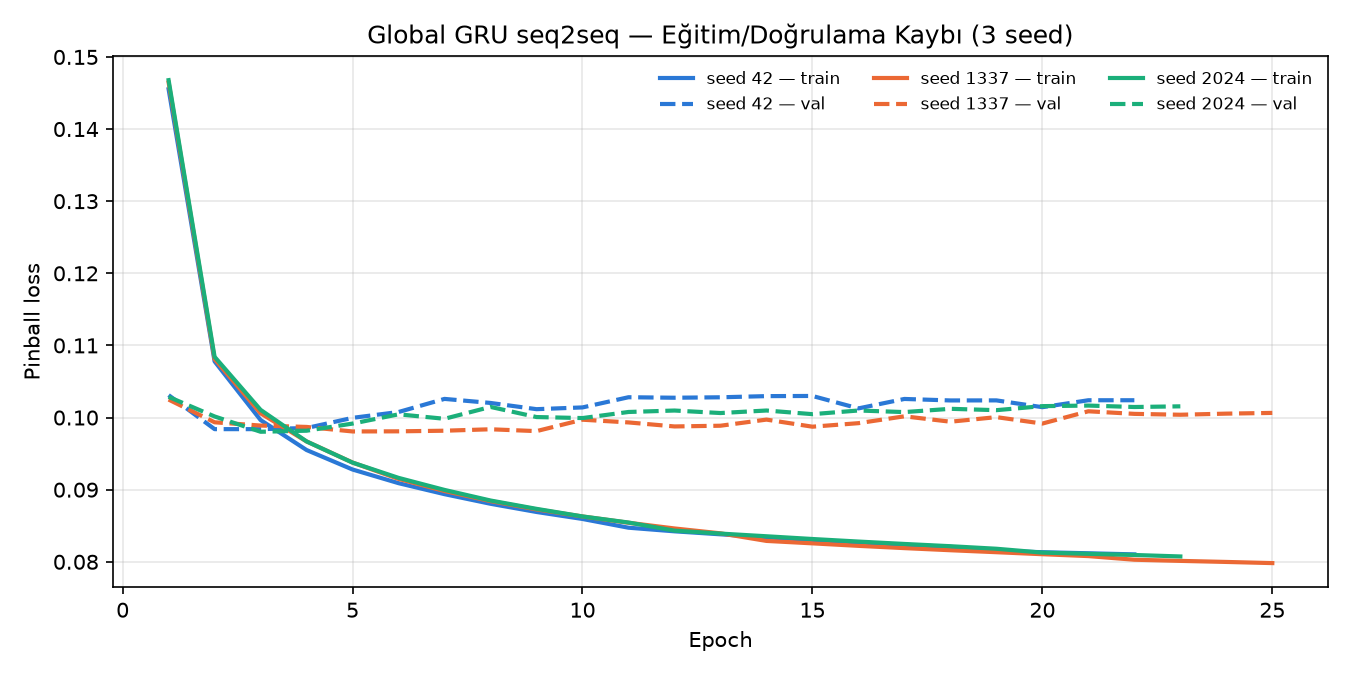
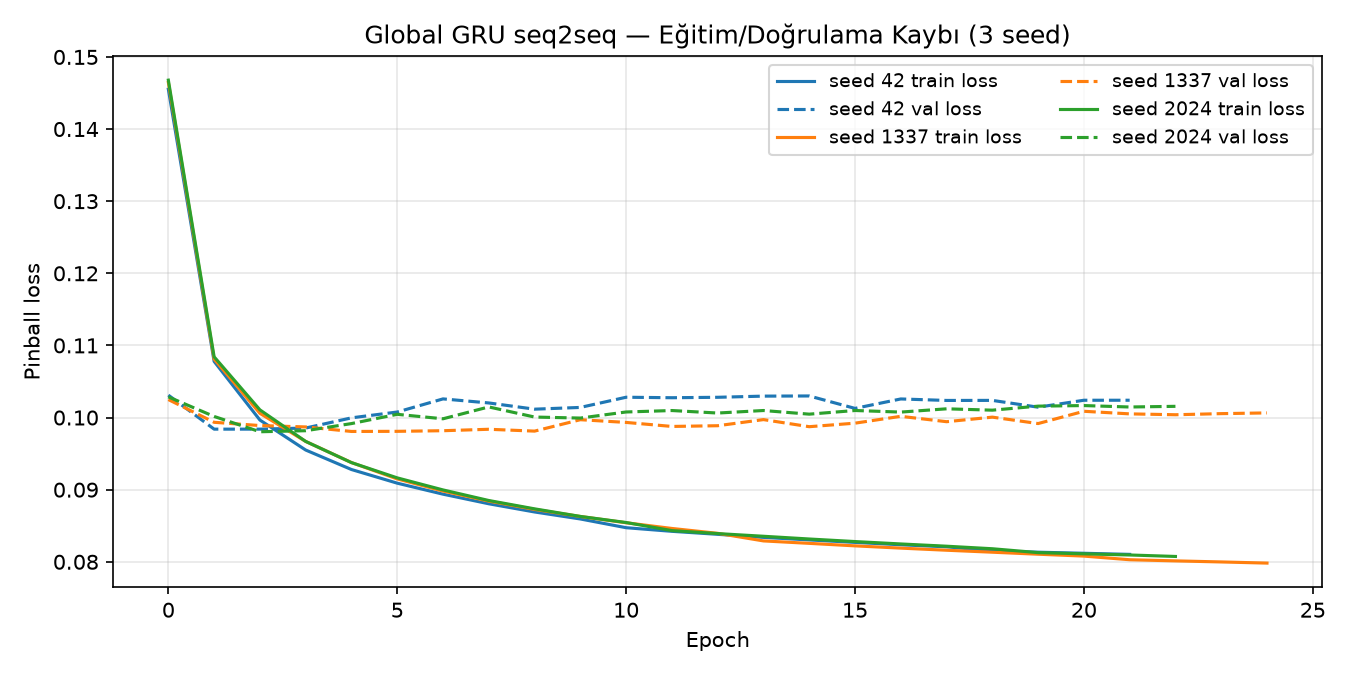
Segment hata grafigi eklendi, loss grafigi proje stiline uyarlandi

diff --git a/README.md b/README.md
@@ -186,6 +186,8 @@ Farkın büyüklüğü LR'den değil kapsama açığından okunmalı.
 | Talep Q1 (küçük) | 5.369 | 9.57 | −0.59 | 76.1 | Küçük mağazada hata yüksek |
 | Talep Q5 (büyük) | 5.368 | 7.69 | −0.66 | 78.3 | |
 
+![Segment bazlı hata](figs/segment_hata.png)
+
 **Hipotez testi — kapalı günler.** İlk hipotez, kapalı günlerin metrikleri
 bozduğuydu. Test edildi, büyük ölçüde çürütüldü: model kapalı günde 0 tahmin
 ediyor, sMAPE değişmiyor (8.34). Yalnız 3 mağaza (292, 876, 909) %35'ten fazla
